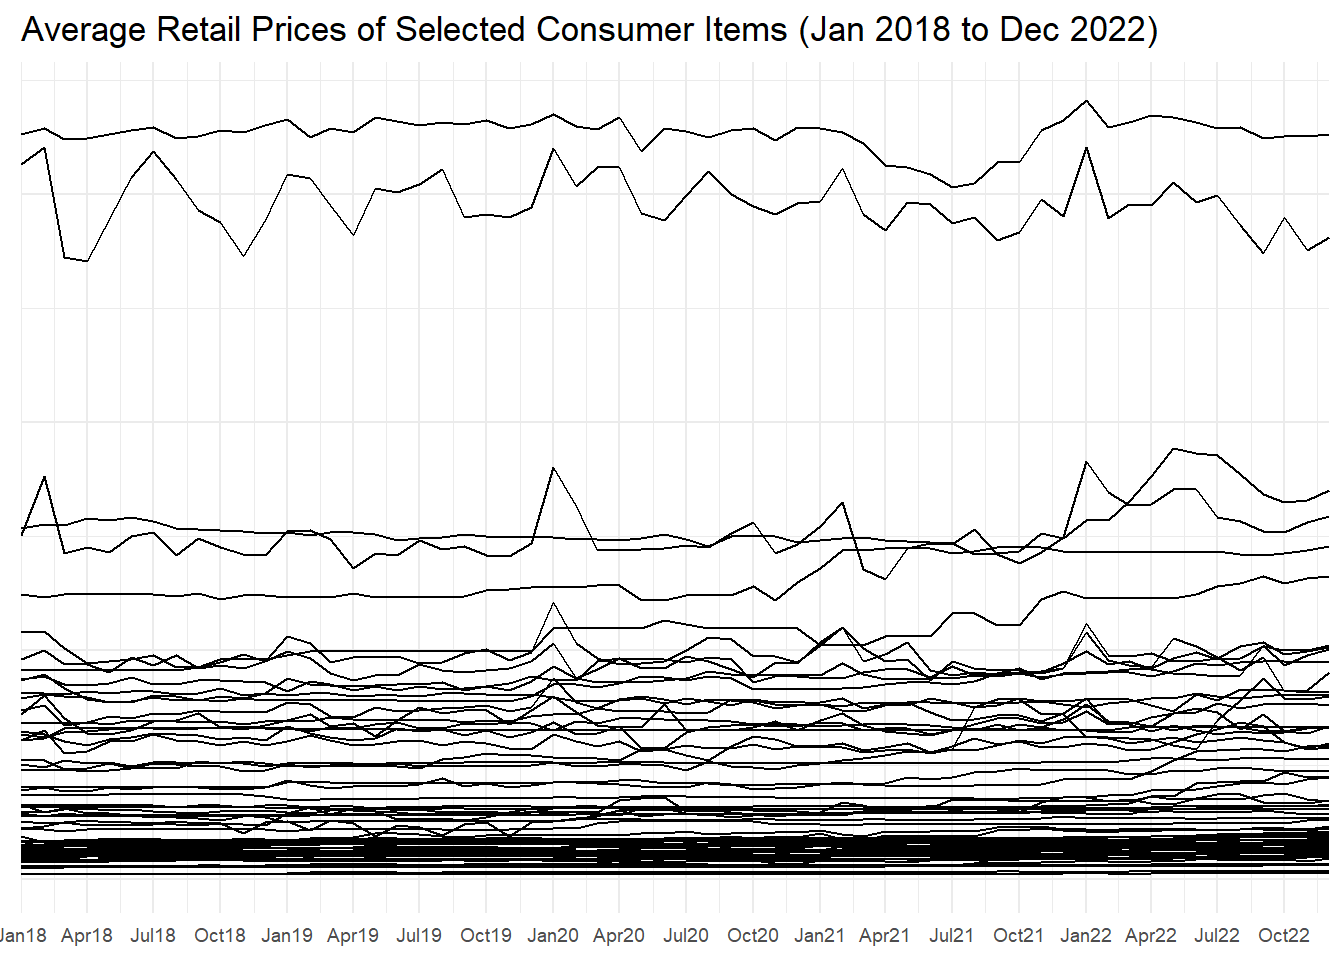
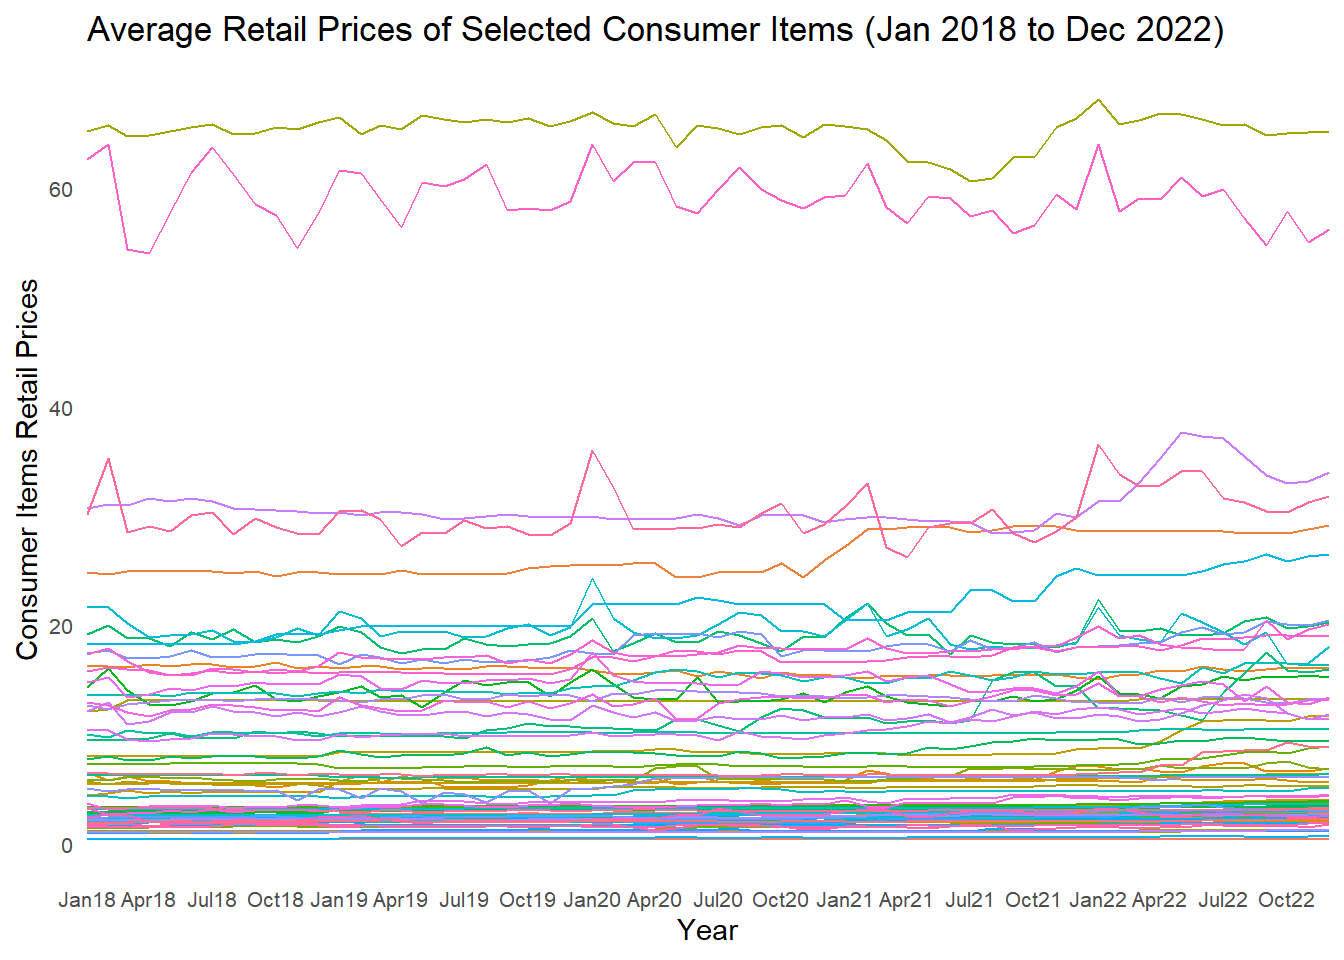
Commit changes - include author details & code "execute freeze:true"

diff --git a/_site/In-class_Ex/In-class_Ex06/In-class_Ex06.html b/_site/In-class_Ex/In-class_Ex06/In-class_Ex06.html
@@ -75,6 +75,8 @@ pre > code.sourceCode > span > a:first-child::before { text-decoration: underlin
 <script src="../../site_libs/bootstrap/bootstrap.min.js"></script>
 <link href="../../site_libs/bootstrap/bootstrap-icons.css" rel="stylesheet">
 <link href="../../site_libs/bootstrap/bootstrap.min.css" rel="stylesheet" id="quarto-bootstrap" data-mode="light">
+<link href="../../site_libs/quarto-contrib/fontawesome6-0.1.0/all.css" rel="stylesheet">
+<link href="../../site_libs/quarto-contrib/fontawesome6-0.1.0/latex-fontsize.css" rel="stylesheet">
 <script id="quarto-search-options" type="application/json">{
   "location": "navbar",
   "copy-button": false,
@@ -120,7 +122,7 @@ pre > code.sourceCode > span > a:first-child::before { text-decoration: underlin
             <ul class="navbar-nav navbar-nav-scroll me-auto">
   <li class="nav-item dropdown ">
     <a class="nav-link dropdown-toggle" href="#" id="nav-menu-fa-highlighter--hands-on-exercises" role="button" data-bs-toggle="dropdown" aria-expanded="false" rel="" target="">
- <span class="menu-text"> Hands-on Exercises</span>
+ <span class="menu-text"><i class="fa-solid fa-highlighter" aria-label="highlighter"></i> Hands-on Exercises</span>
     </a>
     <ul class="dropdown-menu" aria-labelledby="nav-menu-fa-highlighter--hands-on-exercises">    
         <li>
@@ -188,7 +190,7 @@ pre > code.sourceCode > span > a:first-child::before { text-decoration: underlin
  <span class="dropdown-text">[7.3] Analytical Mapping</span></a>
   </li>  
         <li>
-    <a class="dropdown-item" href="../../Hands-on_Ex/Hands-on_Ex08/Hands-on.html" rel="" target="">
+    <a class="dropdown-item" href="../../Hands-on_Ex/Hands-on_Ex08/Hands-on_Ex08.html" rel="" target="">
  <span class="dropdown-text">[8] Modelling, Visualising and Analysing Network Data with R</span></a>
   </li>  
         <li>
@@ -203,7 +205,7 @@ pre > code.sourceCode > span > a:first-child::before { text-decoration: underlin
   </li>
   <li class="nav-item dropdown ">
     <a class="nav-link dropdown-toggle" href="#" id="nav-menu-fa-school--in-class-exercises" role="button" data-bs-toggle="dropdown" aria-expanded="false" rel="" target="">
- <span class="menu-text"> In-class Exercises</span>
+ <span class="menu-text"><i class="fa-solid fa-school" aria-label="school"></i> In-class Exercises</span>
     </a>
     <ul class="dropdown-menu" aria-labelledby="nav-menu-fa-school--in-class-exercises">    
         <li>
@@ -226,7 +228,7 @@ pre > code.sourceCode > span > a:first-child::before { text-decoration: underlin
   </li>
   <li class="nav-item dropdown ">
     <a class="nav-link dropdown-toggle" href="#" id="nav-menu-fa-laptop-code--take-home-exercises" role="button" data-bs-toggle="dropdown" aria-expanded="false" rel="" target="">
- <span class="menu-text"> Take-home Exercises</span>
+ <span class="menu-text"><i class="fa-solid fa-laptop-code" aria-label="laptop-code"></i> Take-home Exercises</span>
     </a>
     <ul class="dropdown-menu" aria-labelledby="nav-menu-fa-laptop-code--take-home-exercises">    
         <li>
@@ -245,23 +247,12 @@ pre > code.sourceCode > span > a:first-child::before { text-decoration: underlin
   </li>
   <li class="nav-item dropdown ">
     <a class="nav-link dropdown-toggle" href="#" id="nav-menu-fa-r--shiny" role="button" data-bs-toggle="dropdown" aria-expanded="false" rel="" target="">
- <span class="menu-text"> Shiny</span>
+ <span class="menu-text"><i class="fa-solid fa-r" aria-label="r"></i> Shiny</span>
     </a>
     <ul class="dropdown-menu" aria-labelledby="nav-menu-fa-r--shiny">    
         <li>
-    <a class="dropdown-item" href="../../Shiny/Shiny.html" rel="" target="">
+    <a class="dropdown-item" href="https://isss608-vaa-suanern.shinyapps.io/prototype/" rel="" target="">
  <span class="dropdown-text">R Shiny Basic</span></a>
-  </li>  
-    </ul>
-  </li>
-  <li class="nav-item dropdown ">
-    <a class="nav-link dropdown-toggle" href="#" id="nav-menu-fa-users-line--project" role="button" data-bs-toggle="dropdown" aria-expanded="false" rel="" target="">
- <span class="menu-text"> Project</span>
-    </a>
-    <ul class="dropdown-menu" aria-labelledby="nav-menu-fa-users-line--project">    
-        <li>
-    <a class="dropdown-item" href="../../Project/Project.html" rel="" target="">
- <span class="dropdown-text">In progress</span></a>
   </li>  
     </ul>
   </li>
@@ -289,7 +280,8 @@ pre > code.sourceCode > span > a:first-child::before { text-decoration: underlin
   <li><a href="#loading-r-packages" id="toc-loading-r-packages" class="nav-link" data-scroll-target="#loading-r-packages">Loading R packages</a></li>
   <li><a href="#importing-data" id="toc-importing-data" class="nav-link" data-scroll-target="#importing-data">Importing data</a></li>
   </ul></li>
-  <li><a href="#plot-horizon-graph" id="toc-plot-horizon-graph" class="nav-link" data-scroll-target="#plot-horizon-graph">2. Plot horizon graph</a></li>
+  <li><a href="#classic-line-graph-method" id="toc-classic-line-graph-method" class="nav-link" data-scroll-target="#classic-line-graph-method">2. Classic Line Graph Method</a></li>
+  <li><a href="#horizon-graph" id="toc-horizon-graph" class="nav-link" data-scroll-target="#horizon-graph">3. Horizon Graph</a></li>
   <li><a href="#reference" id="toc-reference" class="nav-link" data-scroll-target="#reference">Reference</a></li>
   </ul>
 </nav>
@@ -357,8 +349,9 @@ pre > code.sourceCode > span > a:first-child::before { text-decoration: underlin
 </div>
 </section>
 </section>
-<section id="plot-horizon-graph" class="level1">
-<h1>2. Plot horizon graph</h1>
+<section id="classic-line-graph-method" class="level1">
+<h1>2. Classic Line Graph Method</h1>
+<p>Code chunk below plots classic line graph. This type of graph has its limitations in visualising large time-series data.</p>
 <div class="cell">
 <details>
 <summary>Show code</summary>
@@ -366,25 +359,30 @@ pre > code.sourceCode > span > a:first-child::before { text-decoration: underlin
 <span id="cb3-2"><a href="#cb3-2" aria-hidden="true" tabindex="-1"></a>  <span class="fu">filter</span>(Date <span class="sc">&gt;=</span> <span class="st">"2018-01-01"</span>) <span class="sc">%&gt;%</span></span>
 <span id="cb3-3"><a href="#cb3-3" aria-hidden="true" tabindex="-1"></a>  <span class="fu">ggplot</span>() <span class="sc">+</span></span>
 <span id="cb3-4"><a href="#cb3-4" aria-hidden="true" tabindex="-1"></a>  <span class="fu">geom_line</span>(<span class="fu">aes</span>(<span class="at">x=</span>Date, </span>
-<span id="cb3-5"><a href="#cb3-5" aria-hidden="true" tabindex="-1"></a>                <span class="at">y=</span>Values, <span class="at">fill=</span><span class="st">`</span><span class="at">Consumer Items</span><span class="st">`</span>)) <span class="sc">+</span></span>
-<span id="cb3-6"><a href="#cb3-6" aria-hidden="true" tabindex="-1"></a>  <span class="fu">theme_minimal</span>() <span class="sc">+</span></span>
-<span id="cb3-7"><a href="#cb3-7" aria-hidden="true" tabindex="-1"></a>  <span class="fu">theme</span>(<span class="at">panel.spacing.y=</span><span class="fu">unit</span>(<span class="dv">0</span>, <span class="st">"lines"</span>), <span class="at">strip.text.y =</span> <span class="fu">element_text</span>(</span>
-<span id="cb3-8"><a href="#cb3-8" aria-hidden="true" tabindex="-1"></a>    <span class="at">size =</span> <span class="dv">5</span>, <span class="at">angle =</span> <span class="dv">0</span>, <span class="at">hjust =</span> <span class="dv">0</span>),</span>
-<span id="cb3-9"><a href="#cb3-9" aria-hidden="true" tabindex="-1"></a>    <span class="at">legend.position =</span> <span class="st">'none'</span>,</span>
-<span id="cb3-10"><a href="#cb3-10" aria-hidden="true" tabindex="-1"></a>    <span class="at">axis.text.y =</span> <span class="fu">element_blank</span>(),</span>
-<span id="cb3-11"><a href="#cb3-11" aria-hidden="true" tabindex="-1"></a>    <span class="at">axis.text.x =</span> <span class="fu">element_text</span>(<span class="at">size=</span><span class="dv">7</span>),</span>
-<span id="cb3-12"><a href="#cb3-12" aria-hidden="true" tabindex="-1"></a>    <span class="at">axis.title.y =</span> <span class="fu">element_blank</span>(),</span>
-<span id="cb3-13"><a href="#cb3-13" aria-hidden="true" tabindex="-1"></a>    <span class="at">axis.title.x =</span> <span class="fu">element_blank</span>(),</span>
-<span id="cb3-14"><a href="#cb3-14" aria-hidden="true" tabindex="-1"></a>    <span class="at">axis.ticks.y =</span> <span class="fu">element_blank</span>(),</span>
-<span id="cb3-15"><a href="#cb3-15" aria-hidden="true" tabindex="-1"></a>    <span class="at">panel.border =</span> <span class="fu">element_blank</span>()</span>
-<span id="cb3-16"><a href="#cb3-16" aria-hidden="true" tabindex="-1"></a>    ) <span class="sc">+</span></span>
-<span id="cb3-17"><a href="#cb3-17" aria-hidden="true" tabindex="-1"></a>    <span class="fu">scale_x_date</span>(<span class="at">expand=</span><span class="fu">c</span>(<span class="dv">0</span>,<span class="dv">0</span>), <span class="at">date_breaks =</span> <span class="st">"3 month"</span>, <span class="at">date_labels =</span> <span class="st">"%b%y"</span>) <span class="sc">+</span></span>
-<span id="cb3-18"><a href="#cb3-18" aria-hidden="true" tabindex="-1"></a>  <span class="fu">ggtitle</span>(<span class="st">'Average Retail Prices of Selected Consumer Items (Jan 2018 to Dec 2022)'</span>)</span></code><button title="Copy to Clipboard" class="code-copy-button"><i class="bi"></i></button></pre></div>
+<span id="cb3-5"><a href="#cb3-5" aria-hidden="true" tabindex="-1"></a>                <span class="at">y=</span>Values, <span class="at">color=</span><span class="st">`</span><span class="at">Consumer Items</span><span class="st">`</span>)) <span class="sc">+</span></span>
+<span id="cb3-6"><a href="#cb3-6" aria-hidden="true" tabindex="-1"></a>  <span class="fu">labs</span>(<span class="at">x=</span><span class="st">"Year"</span>, <span class="at">y=</span><span class="st">"Consumer Items Retail Prices"</span>, </span>
+<span id="cb3-7"><a href="#cb3-7" aria-hidden="true" tabindex="-1"></a>       <span class="at">title =</span> <span class="st">'Average Retail Prices of Selected Consumer Items (Jan 2018 to Dec 2022)'</span>) <span class="sc">+</span></span>
+<span id="cb3-8"><a href="#cb3-8" aria-hidden="true" tabindex="-1"></a>  <span class="fu">theme_minimal</span>() <span class="sc">+</span></span>
+<span id="cb3-9"><a href="#cb3-9" aria-hidden="true" tabindex="-1"></a>  <span class="fu">theme</span>(<span class="at">panel.spacing.y=</span><span class="fu">unit</span>(<span class="dv">0</span>, <span class="st">"lines"</span>), <span class="at">strip.text.y =</span> <span class="fu">element_text</span>(</span>
+<span id="cb3-10"><a href="#cb3-10" aria-hidden="true" tabindex="-1"></a>    <span class="at">size =</span> <span class="dv">5</span>, <span class="at">angle =</span> <span class="dv">0</span>, <span class="at">hjust =</span> <span class="dv">0</span>),</span>
+<span id="cb3-11"><a href="#cb3-11" aria-hidden="true" tabindex="-1"></a>    <span class="at">legend.position =</span> <span class="st">'none'</span>,</span>
+<span id="cb3-12"><a href="#cb3-12" aria-hidden="true" tabindex="-1"></a>    <span class="at">panel.grid =</span> <span class="fu">element_blank</span>(),</span>
+<span id="cb3-13"><a href="#cb3-13" aria-hidden="true" tabindex="-1"></a>    <span class="at">axis.text.x =</span> <span class="fu">element_text</span>(<span class="at">size =</span> <span class="dv">8</span>),</span>
+<span id="cb3-14"><a href="#cb3-14" aria-hidden="true" tabindex="-1"></a>    <span class="at">axis.text.y =</span> <span class="fu">element_text</span>(<span class="at">size =</span> <span class="dv">8</span>),</span>
+<span id="cb3-15"><a href="#cb3-15" aria-hidden="true" tabindex="-1"></a>    <span class="at">axis.ticks.y =</span> <span class="fu">element_blank</span>(),</span>
+<span id="cb3-16"><a href="#cb3-16" aria-hidden="true" tabindex="-1"></a>    <span class="at">panel.border =</span> <span class="fu">element_blank</span>()</span>
+<span id="cb3-17"><a href="#cb3-17" aria-hidden="true" tabindex="-1"></a>    ) <span class="sc">+</span></span>
+<span id="cb3-18"><a href="#cb3-18" aria-hidden="true" tabindex="-1"></a>  <span class="fu">scale_x_date</span>(<span class="at">expand=</span><span class="fu">c</span>(<span class="dv">0</span>,<span class="dv">0</span>), <span class="at">date_breaks =</span> <span class="st">"3 month"</span>, <span class="at">date_labels =</span> <span class="st">"%b%y"</span>)</span></code><button title="Copy to Clipboard" class="code-copy-button"><i class="bi"></i></button></pre></div>
 </details>
 <div class="cell-output-display">
 <p><img src="In-class_Ex06_files/figure-html/unnamed-chunk-3-1.png" class="img-fluid" width="672"></p>
 </div>
 </div>
+</section>
+<section id="horizon-graph" class="level1">
+<h1>3. Horizon Graph</h1>
+<p>An alternative method will be to plot a horizon graph.</p>
+<p>Code chunk below plots horizon graph. This type of graph is suitable for massive time-series data.</p>
 <div class="cell">
 <details>
 <summary>Show code</summary>

diff --git a/_site/index.html b/_site/index.html
@@ -154,7 +154,7 @@ ul.task-list li input[type="checkbox"] {
  <span class="dropdown-text">[7.3] Analytical Mapping</span></a>
   </li>  
         <li>
-    <a class="dropdown-item" href="./Hands-on_Ex/Hands-on_Ex08/Hands-on.html" rel="" target="">
+    <a class="dropdown-item" href="./Hands-on_Ex/Hands-on_Ex08/Hands-on_Ex08.html" rel="" target="">
  <span class="dropdown-text">[8] Modelling, Visualising and Analysing Network Data with R</span></a>
   </li>  
         <li>
@@ -215,7 +215,7 @@ ul.task-list li input[type="checkbox"] {
     </a>
     <ul class="dropdown-menu" aria-labelledby="nav-menu-fa-r--shiny">    
         <li>
-    <a class="dropdown-item" href="./Shiny/Shiny.html" rel="" target="">
+    <a class="dropdown-item" href="https://isss608-vaa-suanern.shinyapps.io/prototype/" rel="" target="">
  <span class="dropdown-text">R Shiny Basic</span></a>
   </li>  
     </ul>
